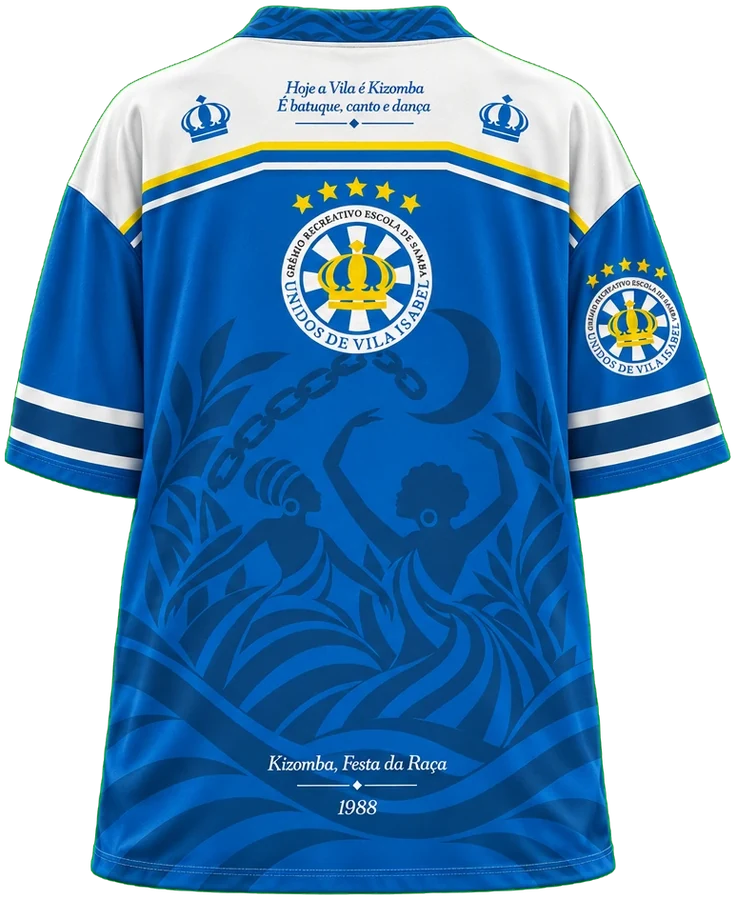
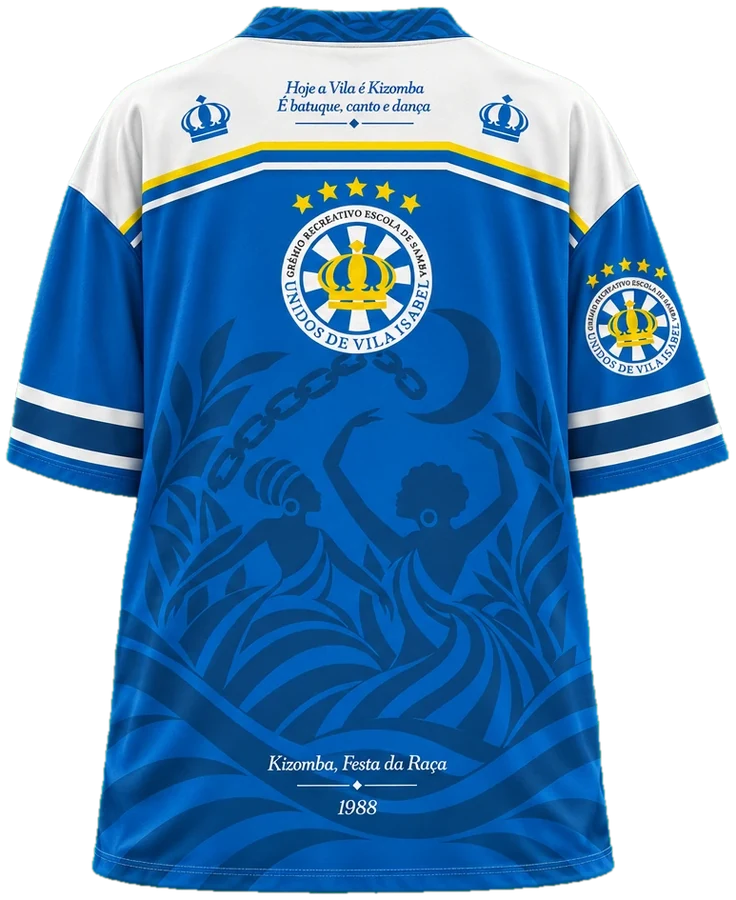
Baterias Cariocas: teste de costas legíveis (Beija-Flor x Salgueiro) e recortes sem contorno verde
- Beija-Flor: trocar frente/costas com animação (botão ou clique na camisa de trás), ampliar em tela cheia
  com zoom por toque/clique e a frase da nuca em texto
- Salgueiro: recortes ampliados da nuca (frase) e da barra (enredo e ano) abaixo da camisa
- Só na linha Legado; o dono escolhe um modo para as 11 escolas
- tools/recorte_fundo_verde.py: borda recua 1 px e sem verde, para não sobrar contorno do fundo;
  as 11 camisas Legado recortadas de novo

Claude-Session: https://claude.ai/code/session_01LWKwsvGKQjaMGiuZcpz9Vi

diff --git a/index.html b/index.html
@@ -207,6 +207,43 @@ input[type=range].rot::-moz-range-thumb{width:16px;height:16px;border-radius:50%
   .mr-feixe::after{animation:none}
 }
 </style>
+<style id="estilos-costas">
+/* Teste: deixar as costas legíveis. Beija-Flor = trocar frente/costas + ampliar + frase da nuca em texto;
+   Salgueiro = detalhes ampliados da nuca e da barra. Ligado pelo script "Costas legíveis" no fim da página. */
+.bat-big.ve-costas .bat-back{right:auto;left:9%;top:11%;height:84%;transform:rotate(-4deg);filter:drop-shadow(0 30px 28px rgba(0,0,0,.55));z-index:2}
+.bat-big.ve-costas .bat-front{left:auto;right:7%;top:9%;height:76%;transform:rotate(6deg);filter:brightness(.72) drop-shadow(0 22px 22px rgba(0,0,0,.5));z-index:1}
+.bat-big.ve-costas .bat-tag-f{left:auto;right:14px}.bat-big.ve-costas .bat-tag-b{left:14px;right:auto}
+.bat-big.modo-troca .bat-back,.bat-big.modo-troca .bat-front{cursor:pointer}
+.bat-acoes{position:absolute;left:0;right:0;bottom:12px;z-index:3;display:flex;justify-content:center;gap:8px;pointer-events:none}
+.bat-acoes button{pointer-events:auto;display:inline-flex;align-items:center;gap:7px;min-height:38px;padding:0 14px;border-radius:999px;border:1px solid rgba(255,255,255,.18);background:rgba(10,11,13,.72);color:#F4F5F2;font:700 13px 'Barlow',sans-serif;letter-spacing:.04em;cursor:pointer;backdrop-filter:blur(6px)}
+.bat-acoes button:hover{border-color:#F9CA0D}
+.bat-acoes button.prim{background:#F9CA0D;color:#0A0B0D;border-color:#F9CA0D}
+.bat-nuca{display:flex;flex-direction:column;gap:6px;padding:14px 18px;border-radius:16px;border:1px solid #3A1A20;background:#1C0B0F}
+.bat-nuca span{font-size:12px;font-weight:700;letter-spacing:.14em;text-transform:uppercase;color:#F9CA0D}
+.bat-nuca q{font-family:'Barlow Condensed',sans-serif;font-style:italic;font-weight:800;font-size:clamp(20px,2.2vw,26px);line-height:1.15;color:#F4F5F2;quotes:'“' '”'}
+.bat-detalhes{display:grid;grid-template-columns:1fr 1fr;gap:12px}
+.bat-det{position:relative;margin:0;border-radius:16px;overflow:hidden;border:1px solid #3A1A20;background:#1C0B0F}
+.bat-det div{width:100%;background-repeat:no-repeat}
+.bat-det figcaption{position:absolute;left:10px;top:10px;padding:4px 10px;border-radius:999px;background:rgba(10,11,13,.75);color:#F9CA0D;font-size:11px;font-weight:700;letter-spacing:.12em;text-transform:uppercase}
+.bat-zoom{position:fixed;inset:0;z-index:200;display:flex;flex-direction:column;background:rgba(6,6,8,.94);backdrop-filter:blur(4px)}
+.bat-zoom[hidden]{display:none}
+.bat-zoom-topo{display:flex;align-items:center;justify-content:space-between;gap:12px;padding:14px 18px;color:#F4F5F2}
+.bat-zoom-topo b{font-family:'Barlow Condensed',sans-serif;font-style:italic;font-weight:900;text-transform:uppercase;font-size:22px}
+.bat-zoom-lados{display:inline-flex;padding:3px;border-radius:999px;border:1px solid #3A1A20;background:#1C0B0F}
+.bat-zoom-lados button{min-height:34px;padding:0 16px;border:0;border-radius:999px;background:none;color:#B89AA0;font:700 12px 'Barlow',sans-serif;letter-spacing:.08em;text-transform:uppercase;cursor:pointer}
+.bat-zoom-lados button[aria-pressed="true"]{background:#F9CA0D;color:#0A0B0D}
+.bat-zoom-fechar{width:42px;height:42px;border-radius:50%;border:1px solid rgba(255,255,255,.2);background:none;color:#fff;font-size:24px;line-height:1;cursor:pointer}
+.bat-zoom-area{position:relative;flex:1;overflow:hidden;touch-action:none;cursor:zoom-in}
+.bat-zoom-area img{position:absolute;inset:16px;width:calc(100% - 32px);height:calc(100% - 32px);object-fit:contain;transition:transform .35s cubic-bezier(.22,.7,.18,1)}
+.bat-zoom-area.zoom{cursor:zoom-out}.bat-zoom-area.zoom img{transform:scale(2.6);transition:transform .35s cubic-bezier(.22,.7,.18,1),transform-origin 0s}
+.bat-zoom-dica{padding:10px 18px 18px;text-align:center;font-size:13px;color:#B89AA0}
+@media (max-width:700px){
+  .bat-big.ve-costas .bat-back{left:8%;right:auto;top:auto;bottom:4%;width:50%;height:auto;transform:none;filter:drop-shadow(0 16px 16px rgba(0,0,0,.5))}
+  .bat-big.ve-costas .bat-front{right:2%;left:auto;top:auto;bottom:10%;width:38%;height:auto;transform:none;filter:brightness(.6)}
+  .bat-acoes{bottom:8px}.bat-acoes button{min-height:32px;padding:0 10px;font-size:12px}
+  .bat-detalhes{gap:8px}
+}
+</style>
 </head>
 <body>
 <div id="app"></div>
@@ -1292,6 +1329,124 @@ mountDC(Component, {"accent": "#F9CA0D", "whatsapp": "+55 21 96621-4050"}, 'app-
     var io = new IntersectionObserver(function (es) { es.forEach(function (en) { if (en.isIntersecting) { en.target.classList.add('in'); io.unobserve(en.target); } }); }, { threshold: 0.15 });
     rv.forEach(function (el) { io.observe(el); });
   } else rv.forEach(function (el) { el.classList.add('in'); });
+})();
+</script>
+<script>
+// Costas legíveis (teste para comparar): Beija-Flor no modo "troca" (trocar frente/costas, ampliar, frase da nuca em texto)
+// e Salgueiro no modo "detalhes" (recortes ampliados da nuca e da barra). Só na linha Legado.
+(function () {
+  var TESTE = {
+    soberana: { modo: 'troca', nuca: 'A fantasia resiste' },
+    furiosa: { modo: 'detalhes' }
+  };
+  // regiões do texto nas costas (frações da imagem recortada): nuca e barra
+  var NUCA = [0.24, 0.05, 0.76, 0.17], BARRA = [0.24, 0.85, 0.76, 0.98];
+  var big = document.querySelector('.bat-big');
+  if (!big) return;
+  var frente = big.querySelector('.bat-front'), costas = big.querySelector('.bat-back');
+  var extra = document.createElement('div'); extra.className = 'bat-extra'; extra.style.display = 'contents';
+  big.insertAdjacentElement('afterend', extra);
+  var acoes = document.createElement('div'); acoes.className = 'bat-acoes'; big.appendChild(acoes);
+  var calmo = matchMedia('(prefers-reduced-motion: reduce)').matches;
+  var atual = null;
+
+  // troca frente e costas animando cada camisa do lugar antigo para o novo
+  function trocar() {
+    var antes = [frente, costas].map(function (el) { return { r: el.getBoundingClientRect(), t: getComputedStyle(el).transform }; });
+    big.classList.toggle('ve-costas');
+    atualizarBotoes();
+    if (calmo || !frente.animate) return;
+    [frente, costas].forEach(function (el, i) {
+      var a = antes[i].r, b = el.getBoundingClientRect(), tb = getComputedStyle(el).transform;
+      var dx = (a.left + a.width / 2) - (b.left + b.width / 2), dy = (a.top + a.height / 2) - (b.top + b.height / 2), k = a.width / b.width;
+      var t0 = 'translate(' + dx + 'px,' + dy + 'px) scale(' + k + ') ' + (antes[i].t === 'none' ? '' : antes[i].t);
+      el.animate([{ transform: t0 }, { transform: tb === 'none' ? 'none' : tb }], { duration: 650, easing: 'cubic-bezier(.65,0,.25,1)' });
+    });
+  }
+  function atualizarBotoes() {
+    var c = big.classList.contains('ve-costas');
+    var b = acoes.querySelector('[data-a="trocar"]'); if (b) b.textContent = c ? 'Ver frente' : 'Ver costas';
+  }
+
+  // ampliar em tela cheia, com toque/clique para dar zoom e arrastar para mover
+  var zoom = document.createElement('div');
+  zoom.className = 'bat-zoom'; zoom.hidden = true; zoom.setAttribute('role', 'dialog'); zoom.setAttribute('aria-modal', 'true'); zoom.setAttribute('aria-label', 'Camisa ampliada');
+  zoom.innerHTML = '<div class="bat-zoom-topo"><b></b><div class="bat-zoom-lados"><button type="button" data-l="f">Frente</button><button type="button" data-l="b">Costas</button></div><button type="button" class="bat-zoom-fechar" aria-label="Fechar">×</button></div><div class="bat-zoom-area"><img alt=""></div><p class="bat-zoom-dica">Toque na camisa para aproximar e arraste para ver os detalhes</p>';
+  document.body.appendChild(zoom);
+  var area = zoom.querySelector('.bat-zoom-area'), zimg = area.querySelector('img');
+  function lado(l) {
+    zimg.src = (l === 'b' ? costas : frente).src;
+    zimg.alt = (l === 'b' ? costas : frente).alt;
+    area.classList.remove('zoom');
+    zoom.querySelectorAll('[data-l]').forEach(function (x) { x.setAttribute('aria-pressed', String(x.dataset.l === l)); });
+  }
+  function abrirZoom() {
+    zoom.querySelector('b').textContent = (document.querySelector('.bat-info strong') || {}).textContent || '';
+    lado(big.classList.contains('ve-costas') ? 'b' : 'f');
+    zoom.hidden = false; document.documentElement.style.overflow = 'hidden';
+    zoom.querySelector('.bat-zoom-fechar').focus();
+  }
+  function fecharZoom() { zoom.hidden = true; document.documentElement.style.overflow = ''; }
+  function origem(ev) { var r = area.getBoundingClientRect(); zimg.style.transformOrigin = ((ev.clientX - r.left) / r.width * 100) + '% ' + ((ev.clientY - r.top) / r.height * 100) + '%'; }
+  var arrastou = false, apertado = false;
+  area.addEventListener('pointerdown', function (ev) { apertado = true; arrastou = false; if (area.classList.contains('zoom')) area.setPointerCapture(ev.pointerId); });
+  area.addEventListener('pointermove', function (ev) { if (area.classList.contains('zoom') && (apertado || ev.pointerType === 'mouse')) { arrastou = arrastou || apertado; origem(ev); } });
+  area.addEventListener('pointerup', function (ev) { apertado = false; if (arrastou) return; origem(ev); area.classList.toggle('zoom'); });
+  zoom.querySelectorAll('[data-l]').forEach(function (x) { x.addEventListener('click', function () { lado(x.dataset.l); }); });
+  zoom.querySelector('.bat-zoom-fechar').addEventListener('click', fecharZoom);
+  document.addEventListener('keydown', function (ev) { if (ev.key === 'Escape' && !zoom.hidden) fecharZoom(); });
+
+  // recorte de uma região da imagem das costas, ampliado (fundo CSS)
+  function recorte(src, reg, rotulo) {
+    var w = reg[2] - reg[0], h = reg[3] - reg[1];
+    var fig = document.createElement('figure'); fig.className = 'bat-det';
+    var d = document.createElement('div');
+    d.style.backgroundImage = 'url("' + src + '")';
+    d.style.backgroundSize = (100 / w) + '% auto';
+    d.style.backgroundPosition = (reg[0] / (1 - w) * 100) + '% ' + (reg[1] / (1 - h) * 100) + '%';
+    var img = new Image(); img.onload = function () { d.style.aspectRatio = (w * img.naturalWidth) + ' / ' + (h * img.naturalHeight); }; img.src = src;
+    d.setAttribute('role', 'img'); d.setAttribute('aria-label', rotulo + ' da camisa, ampliada');
+    fig.appendChild(d);
+    var cap = document.createElement('figcaption'); cap.textContent = rotulo; fig.appendChild(cap);
+    return fig;
+  }
+
+  function aplicar() {
+    var m = /baterias\/([a-z]+)(-p)?-b\.webp/.exec(costas.getAttribute('src') || '');
+    var chave = m && !m[2] ? m[1] : null;
+    var cfg = chave && TESTE[chave];
+    var id = cfg ? chave : null;
+    if (id === atual && (!cfg || cfg.modo !== 'detalhes')) return;
+    atual = id;
+    big.classList.remove('ve-costas', 'modo-troca');
+    acoes.innerHTML = ''; extra.innerHTML = '';
+    if (!cfg) return;
+    if (cfg.modo === 'troca') {
+      big.classList.add('modo-troca');
+      acoes.innerHTML = '<button type="button" class="prim" data-a="trocar">Ver costas</button><button type="button" data-a="ampliar"><svg width="16" height="16" viewBox="0 0 24 24" fill="none" stroke="currentColor" stroke-width="2.2" stroke-linecap="round" aria-hidden="true"><circle cx="11" cy="11" r="7"></circle><path d="M21 21l-4.3-4.3M11 8v6M8 11h6"></path></svg>Ampliar</button>';
+      if (cfg.nuca) extra.innerHTML = '<div class="bat-nuca"><span>Frase na nuca</span><q>' + cfg.nuca + '</q></div>';
+    } else {
+      var d = document.createElement('div'); d.className = 'bat-detalhes';
+      var src = costas.getAttribute('src');
+      d.appendChild(recorte(src, NUCA, 'Nuca'));
+      d.appendChild(recorte(src, BARRA, 'Barra'));
+      extra.appendChild(d);
+    }
+  }
+  acoes.addEventListener('click', function (ev) {
+    var b = ev.target.closest('[data-a]'); if (!b) return;
+    if (b.dataset.a === 'trocar') trocar(); else abrirZoom();
+  });
+  // clicar na camisa de trás traz ela para a frente (só no modo troca)
+  [frente, costas].forEach(function (el) {
+    el.addEventListener('click', function () {
+      if (!big.classList.contains('modo-troca')) return;
+      var naFrente = big.classList.contains('ve-costas') ? costas : frente;
+      if (el === naFrente) abrirZoom(); else trocar();
+    });
+  });
+  new MutationObserver(aplicar).observe(costas, { attributes: true, attributeFilter: ['src'] });
+  aplicar();
 })();
 </script>
 </body>

diff --git a/tools/recorte_fundo_verde.py b/tools/recorte_fundo_verde.py
@@ -38,8 +38,11 @@ for side,k in zip(('f','b'),comps):
     alpha=np.where(band>0,soft*cv2.dilate(m,np.ones((5,5),np.uint8)),m.astype(np.float32))
     if side=='f': alpha[:,cut:]=0
     else: alpha[:,:cut]=0
-    mx=np.maximum(R,B); G2=np.where(band>0,np.minimum(G,mx+np.maximum(0,(G-mx))*0.5),G)
+    # na borda, o verde não pode passar do maior entre vermelho e azul (tira o contorno verde do fundo)
+    mx=np.maximum(R,B); G2=np.where(band>0,np.minimum(G,mx),G)
     rgb=np.dstack([R,G2,B]).clip(0,255).astype(np.uint8)
+    # recua a borda 1 px, com transição suave, para não sobrar contorno do fundo verde
+    alpha=alpha*cv2.GaussianBlur(cv2.erode(m,np.ones((3,3),np.uint8)).astype(np.float32),(0,0),0.8)
     a=(alpha*255).astype(np.uint8)
     x,y,w,h,_=st[k]; pad=6
     crop=np.dstack([rgb,a])[max(0,y-pad):y+h+pad,max(0,x-pad):x+w+pad]

diff --git a/CLAUDE.md b/CLAUDE.md
@@ -28,6 +28,7 @@ Landing page estática da **Marol Store** (camisas personalizadas). Tudo está e
 - Chaves: furiosa (Salgueiro), tabajara (Portela), soberana (Beija-Flor), noel (Vila Isabel), invocada (Grande Rio), quente (Mocidade), cadencia (Tijuca), leopoldina (Imperatriz), furacao (Viradouro), tamborim (Mangueira), sinfonica (Império Serrano).
 - Legado em versão nova (nov/2026) nas 11 escolas. Imperatriz passou a homenagear o enredo de 2023 ("O Aperreio do Cabra...").
 - Sem personalização (nome/número) nessa coleção: é linha casual de fã.
+- **Teste em andamento (costas legíveis):** script "Costas legíveis" + `<style id="estilos-costas">`, só na linha Legado. Beija-Flor (`soberana`) no modo "troca" (botão Ver costas / clique na camisa de trás, Ampliar em tela cheia com zoom, frase da nuca em texto); Salgueiro (`furiosa`) no modo "detalhes" (recortes ampliados da nuca e da barra). Lista `TESTE` no script. O dono vai escolher um dos dois para aplicar nas 11 escolas.
 
 ## Maiores do Rio
 - Homenagem a Flamengo, Botafogo, Vasco e Fluminense; 4 estampas por clube, modelagem oversized.
